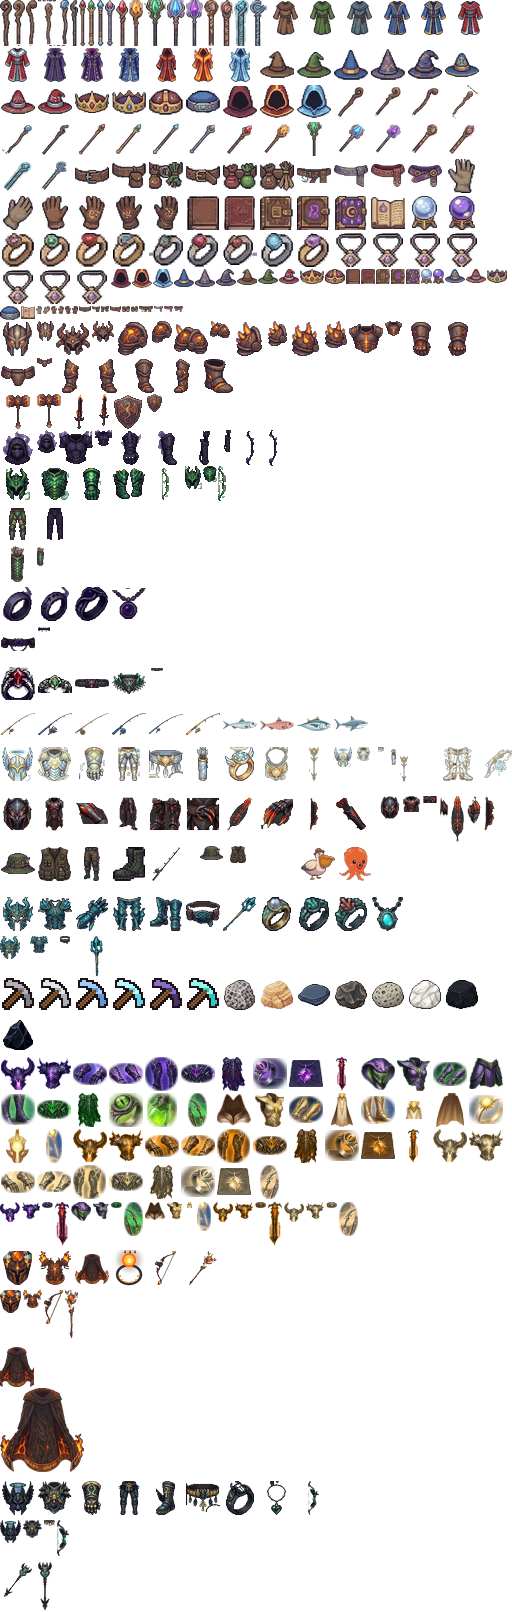
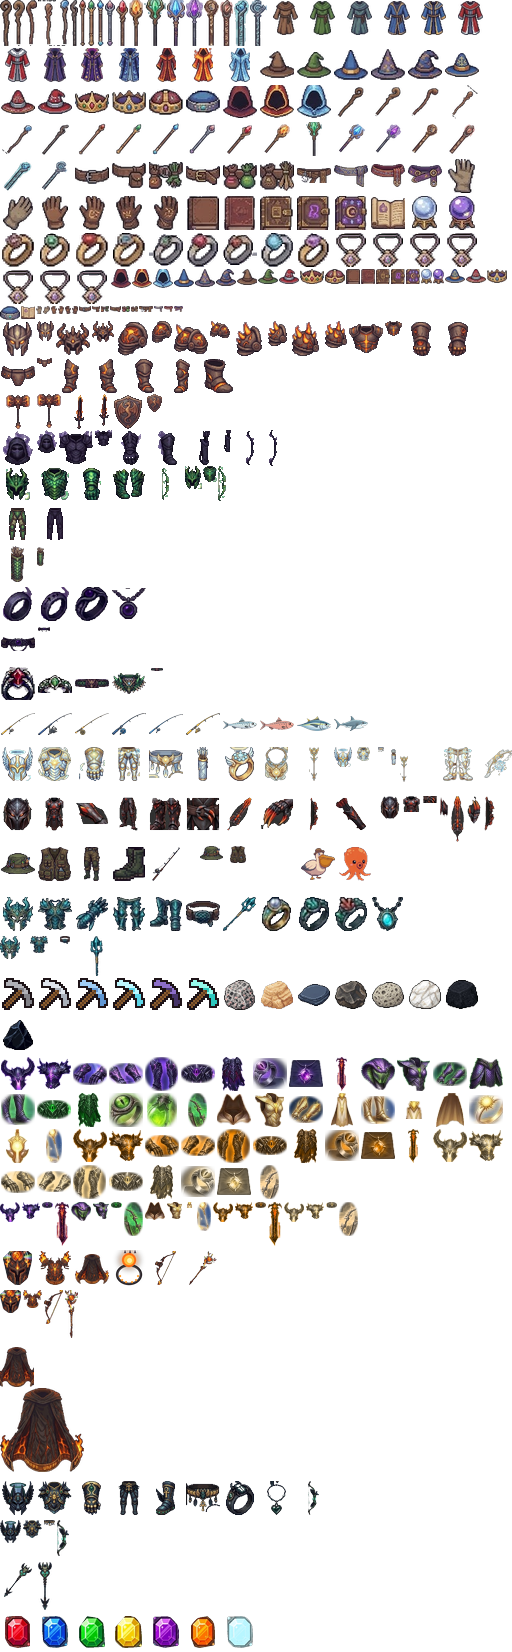
Add files via upload

Changed region(s): [[0.0, 0.0, 1.0, 1.0], [0.5312, 0.8995, 0.5625, 0.9615], [0.5938, 0.8995, 0.625, 0.9305]]

diff --git a/eldoria/README.md b/eldoria/README.md
@@ -363,3 +363,6 @@ Solo visual: respiran, la cola/pelaje se balancea, andan con saltitos, se sienta
 ## Protección contra pantalla en blanco o congelada
 - Cada efecto gráfico (ganchos de `EldExt`) se ejecuta protegido: si lanza un error se omite ese efecto, se limpian los recortes del lienzo que haya dejado a medias y, tras 30 fallos seguidos, se desactiva solo. Si el dibujo completo falla 45 fotogramas seguidos se activa el Modo seguro.
 - Rescate tras cierre brusco (`public/safe.js`): si la página murió mientras se veía (memoria agotada o congelada) y se vuelve a abrir, entra sola en Modo seguro con un aviso. Cerrar con normalidad o pasar a segundo plano no lo activa.
+
+## Gemas con dibujo
+Rubí, zafiro, esmeralda, topacio, amatista y ópalo usan los dibujos de gemas octogonales (atlas `gear.png`, claves `i_rubi`…); el diamante es la gema azul pasada a blanco-celeste. Se ven en la mochila, la colección de minería y el suelo.
